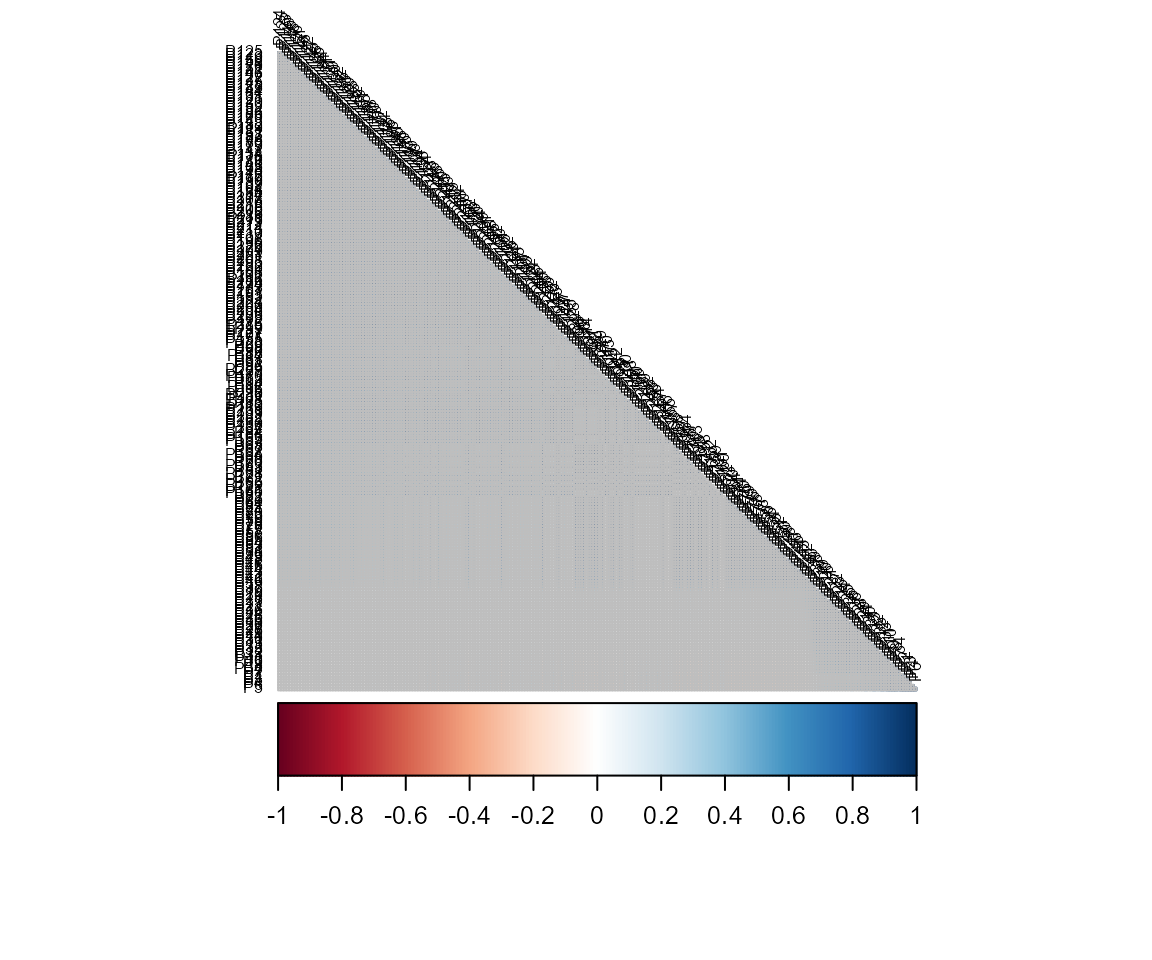
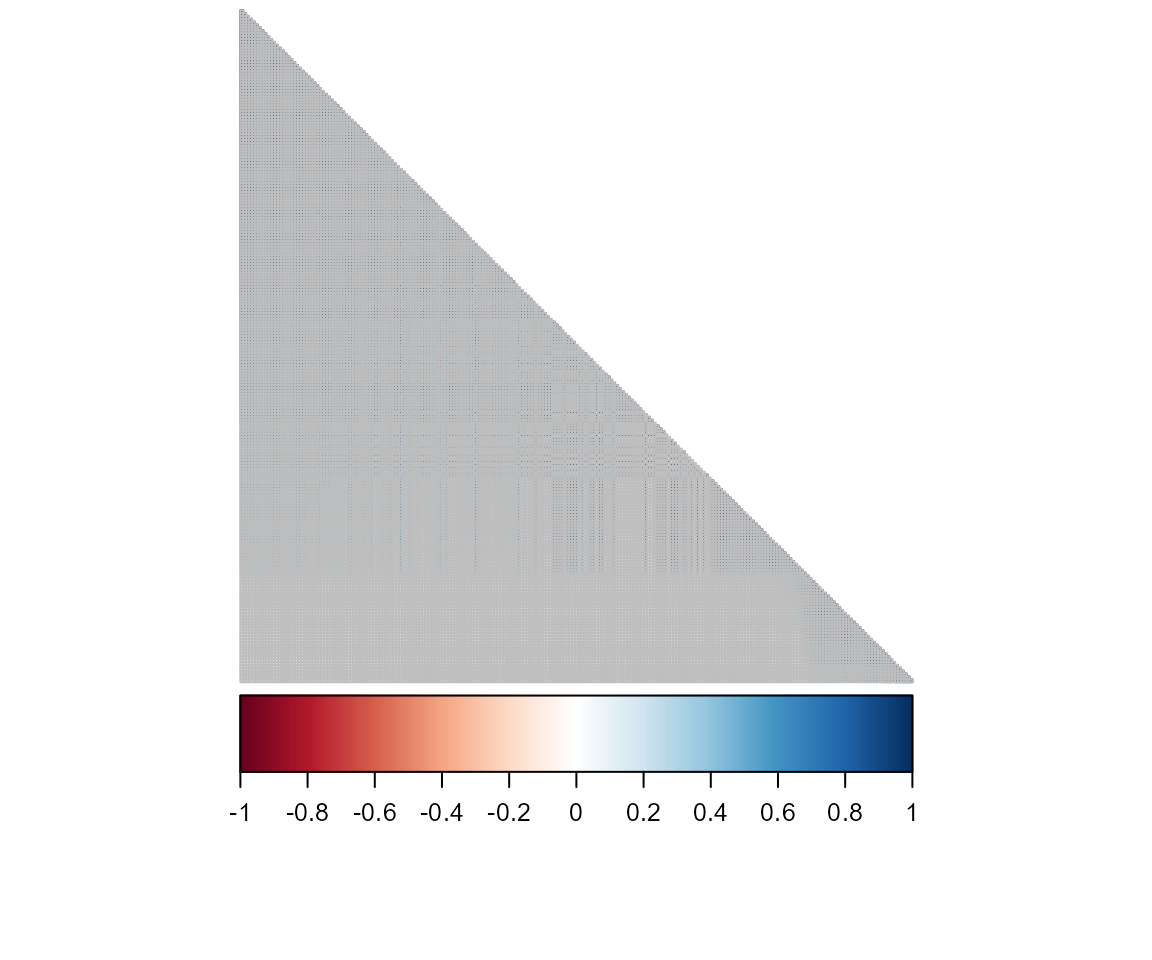
Fix illegible PRISMA correlation plot and broken license link
- getSplitData()/getSplitData_noMessages(): the internal corrplot()
  call used a fixed tl.cex=0.5, legible for a handful of bands but a
  solid block of overlapping text for ~230 PRISMA bands (Tutorial 13's
  CNN section). Scale label size with variable count and drop labels
  entirely past 80 variables instead.
- Add a true-vs-predicted plot for the CNN result in Tutorial 13,
  matching the existing Dense DL/RF plots -- it shows the CNN
  collapsing to a near-constant prediction (R2=-7.73) rather than just
  "not beating RF", which the text-only R2/RMSE line didn't make visible.
- SCOPEinR/README.md: fixed a relative link to THIRD_PARTY_LICENSES.md
  that pointed at the package root; the file actually lives under
  inst/ (found via a real win-builder CRAN pretest run -- "invalid
  file URI" in the incoming-feasibility check).

Rebuilt t13-deep-learning-inversion via pkgdown::build_article() and
synced the output into docs/toolsrtm/.

Changed region(s): [[0.1875, 0.0, 0.8125, 0.875], [0.4062, 0.375, 0.4375, 0.4062]]

diff --git a/docs/toolsrtm/articles/t13-deep-learning-inversion.html b/docs/toolsrtm/articles/t13-deep-learning-inversion.html
@@ -280,8 +280,8 @@ Tutorial 12’s Random Forest<a class="anchor" aria-label="anchor" href="#indepe
 <span>      <span class="st">" RMSE="</span>, <span class="fu"><a href="https://rdrr.io/r/base/Round.html" class="external-link">round</a></span><span class="op">(</span><span class="fu">rmse_f</span><span class="op">(</span><span class="va">obs_test</span>, <span class="va">pred_test_dl</span><span class="op">)</span>, <span class="fl">2</span><span class="op">)</span>,</span>
 <span>      <span class="st">" bias="</span>, <span class="fu"><a href="https://rdrr.io/r/base/Round.html" class="external-link">round</a></span><span class="op">(</span><span class="fu">bias_f</span><span class="op">(</span><span class="va">obs_test</span>, <span class="va">pred_test_dl</span><span class="op">)</span>, <span class="fl">2</span><span class="op">)</span>, <span class="st">"\n"</span><span class="op">)</span></span>
 <span><span class="op">}</span></span>
-<span><span class="co">#&gt; 19/19 - 0s - 182ms/epoch - 10ms/step</span></span>
-<span><span class="co">#&gt; Dense DL, independent test set: R2= 0.08  RMSE= 15.15  bias= 1.3</span></span></code></pre></div>
+<span><span class="co">#&gt; 19/19 - 0s - 40ms/epoch - 2ms/step</span></span>
+<span><span class="co">#&gt; Dense DL, independent test set: R2= 0.081  RMSE= 15.15  bias= 1.14</span></span></code></pre></div>
 <div class="sourceCode" id="cb10"><pre class="downlit sourceCode r">
 <code class="sourceCode R"><span><span class="kw">if</span> <span class="op">(</span><span class="va">dl_result</span><span class="op">$</span><span class="va">ok</span><span class="op">)</span> <span class="op">{</span></span>
 <span>  <span class="va">fit_rf</span> <span class="op">&lt;-</span> <span class="fu"><a href="../reference/get.inversion.html">get.inversion</a></span><span class="op">(</span>data <span class="op">=</span> <span class="va">dataset_dense</span><span class="op">[</span><span class="va">train_idx</span>, <span class="op">]</span>, depVar <span class="op">=</span> <span class="st">"Cab"</span>, inputs <span class="op">=</span> <span class="va">band_names</span>,</span>
@@ -308,7 +308,7 @@ Tutorial 12’s Random Forest<a class="anchor" aria-label="anchor" href="#indepe
 <tbody>
 <tr class="odd">
 <td align="left">Dense DL (getMLmodel)</td>
-<td align="right">0.080</td>
+<td align="right">0.081</td>
 <td align="right">15.15</td>
 </tr>
 <tr class="even">
@@ -380,8 +380,16 @@ contiguous hyperspectral bands are a much fairer test of that idea:</p>
 <span>  <span class="fu"><a href="https://rdrr.io/r/base/cat.html" class="external-link">cat</a></span><span class="op">(</span><span class="st">"CNN (PRISMA, "</span>, <span class="fu"><a href="https://rdrr.io/r/base/length.html" class="external-link">length</a></span><span class="op">(</span><span class="va">prisma_bands</span><span class="op">)</span>, <span class="st">"bands), independent test set: R2="</span>,</span>
 <span>      <span class="fu"><a href="https://rdrr.io/r/base/Round.html" class="external-link">round</a></span><span class="op">(</span><span class="fu">r2_f</span><span class="op">(</span><span class="va">obs_test_h</span>, <span class="va">pred_test_cnn</span><span class="op">)</span>, <span class="fl">3</span><span class="op">)</span>, <span class="st">" RMSE="</span>, <span class="fu"><a href="https://rdrr.io/r/base/Round.html" class="external-link">round</a></span><span class="op">(</span><span class="fu">rmse_f</span><span class="op">(</span><span class="va">obs_test_h</span>, <span class="va">pred_test_cnn</span><span class="op">)</span>, <span class="fl">2</span><span class="op">)</span>, <span class="st">"\n"</span><span class="op">)</span></span>
 <span><span class="op">}</span></span>
-<span><span class="co">#&gt; 13/13 - 0s - 227ms/epoch - 17ms/step</span></span>
-<span><span class="co">#&gt; CNN (PRISMA,  234 bands), independent test set: R2= -0.354  RMSE= 19.34</span></span></code></pre></div>
+<span><span class="co">#&gt; 13/13 - 0s - 50ms/epoch - 4ms/step</span></span>
+<span><span class="co">#&gt; CNN (PRISMA,  234 bands), independent test set: R2= -7.726  RMSE= 49.09</span></span></code></pre></div>
+<div class="sourceCode" id="cb14"><pre class="downlit sourceCode r">
+<code class="sourceCode R"><span><span class="kw">if</span> <span class="op">(</span><span class="va">cnn_result</span><span class="op">$</span><span class="va">ok</span><span class="op">)</span> <span class="op">{</span></span>
+<span>  <span class="fu"><a href="https://rdrr.io/r/graphics/plot.default.html" class="external-link">plot</a></span><span class="op">(</span><span class="va">obs_test_h</span>, <span class="va">pred_test_cnn</span>, pch <span class="op">=</span> <span class="fl">19</span>, col <span class="op">=</span> <span class="st">"#009E73"</span>,</span>
+<span>       xlab <span class="op">=</span> <span class="st">"Observed Cab"</span>, ylab <span class="op">=</span> <span class="st">"Predicted Cab"</span>,</span>
+<span>       main <span class="op">=</span> <span class="fu"><a href="https://rdrr.io/r/base/sprintf.html" class="external-link">sprintf</a></span><span class="op">(</span><span class="st">"1D-CNN, PRISMA (%d bands)"</span>, <span class="fu"><a href="https://rdrr.io/r/base/length.html" class="external-link">length</a></span><span class="op">(</span><span class="va">prisma_bands</span><span class="op">)</span><span class="op">)</span><span class="op">)</span></span>
+<span>  <span class="fu"><a href="https://rdrr.io/r/graphics/abline.html" class="external-link">abline</a></span><span class="op">(</span><span class="fl">0</span>, <span class="fl">1</span>, col <span class="op">=</span> <span class="st">"grey40"</span>, lty <span class="op">=</span> <span class="fl">2</span><span class="op">)</span></span>
+<span><span class="op">}</span></span></code></pre></div>
+<p><img src="t13-deep-learning-inversion_files/figure-html/cnn-true-vs-predicted-1.png" class="r-plt" alt="" width="480"></p>
 <p>The dense-vs-1D-CNN architectural difference itself:
 <code>"Hidden-layers"</code> is a stack of plain fully-connected layers,
 treating each band as an independent input with no notion of spectral

diff --git a/SCOPEinR/README.md b/SCOPEinR/README.md
@@ -213,4 +213,4 @@ Within that GPL-3.0 distribution, two kinds of code coexist:
 - **The core SCOPE physics port** (`RTMo`, `RTMf`, `RTMt.sb`, `RTMz`, `BSM`, `Biochemical_functions`, `ebal`, `fluspect_*_ForSCOPE`, ...) is a direct translation of SCOPE's own GPL-3.0 algorithm -- GPL-3.0, same as upstream.
 - **Original utilities developed in this package** -- LUT generation and batch/time-series execution (`getLUT.SCOPE`, `getLUT_time`, `getinputLUT`, `get.SCOPE.parallel`), output aggregation, CSV export and plotting (`get.SCOPE.outputs`, `get.SCOPE.ind`, `get.merge.SCOPE`, `get.outs.lut*`, `getCSV`), and the trait-inversion and LUT-matching workflows built around SCOPE's outputs -- are original, independent work and are **MIT** individually. Because GPL-3.0 requires the combined, distributed package to be GPL-3.0 as a whole, the package you install is still `License: GPL-3` end to end; the MIT notice above is about authorship/reuse of those specific original files on their own, not a separate installable subset.
 
-See [`THIRD_PARTY_LICENSES.md`](THIRD_PARTY_LICENSES.md) for the full source-code provenance and citation details. `SCOPEinR` depends on [`ToolsRTM`](https://gitlab.com/caminoccg/toolsrtm) for leaf-level optics -- see that package's own `THIRD_PARTY_LICENSES.md` for the licensing of those specific leaf models. Always cite the original SCOPE publication(s) when using this package in scientific work, in addition to citing RTM-Suite/SCOPEinR.
+See [`THIRD_PARTY_LICENSES.md`](inst/THIRD_PARTY_LICENSES.md) for the full source-code provenance and citation details. `SCOPEinR` depends on [`ToolsRTM`](https://gitlab.com/caminoccg/toolsrtm) for leaf-level optics -- see that package's own `THIRD_PARTY_LICENSES.md` for the licensing of those specific leaf models. Always cite the original SCOPE publication(s) when using this package in scientific work, in addition to citing RTM-Suite/SCOPEinR.
